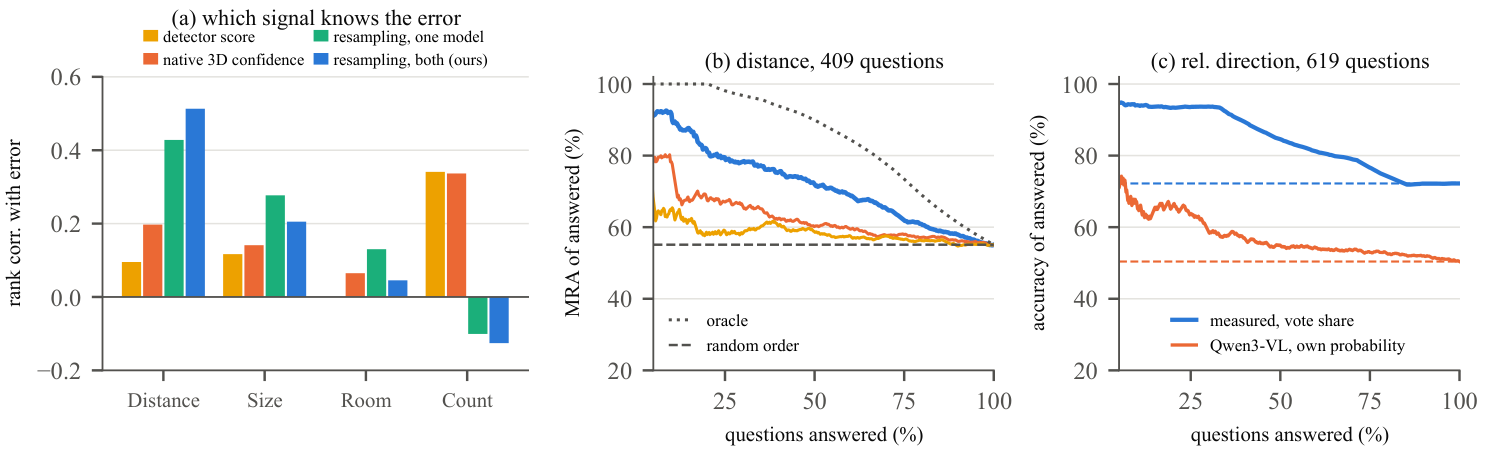
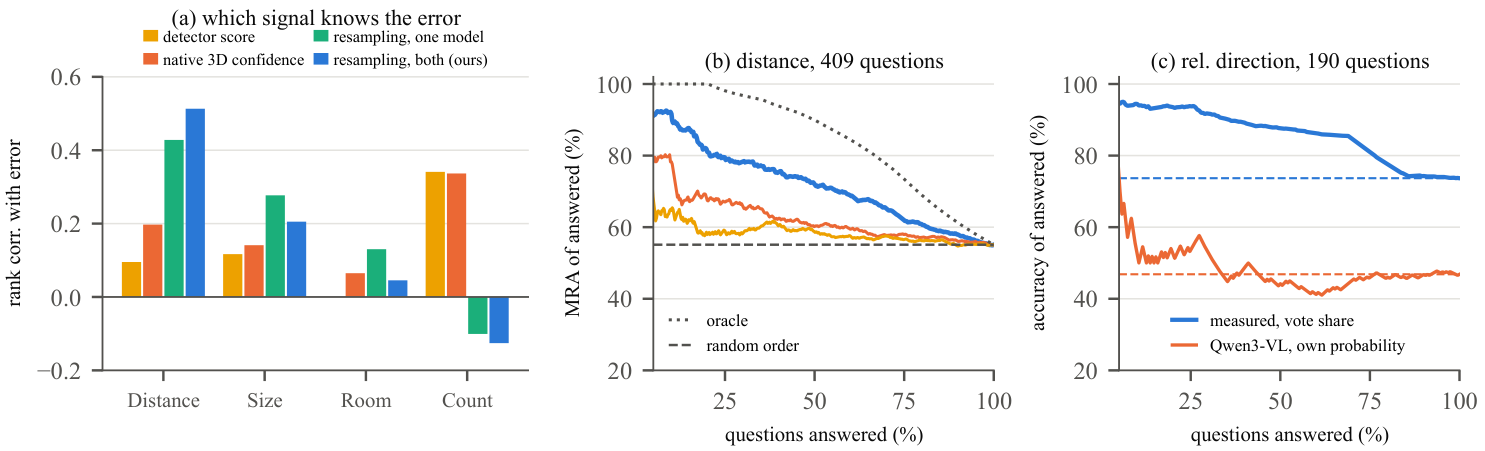
Table 3 reproduced on the paper's half of the benchmark; full-benchmark comparison as an extra

Changed region(s): [[0.7434, 0.2173, 0.9912, 0.6519], [0.8673, 0.1242, 0.8983, 0.1552]]

diff --git a/scripts/reproduce_paper.py b/scripts/reproduce_paper.py
@@ -33,11 +33,13 @@ def main():
     run([PY, "-m", "measure_twice.calibration", "--answers", ans, "--families", "mapanything,pi3x", "--out", os.path.join(OUT, "two_models.json")])
     run([PY, "-m", "measure_twice.calibration", "--answers", ans, "--families", "mapanything,pi3x,da3m",
          "--tasks", "object_abs_distance,object_size_estimation,room_size_estimation", "--out", os.path.join(OUT, "three_models.json")])
-    # Table 3: spatial MLLMs next to the measurements (16 frames, and 32 frames for Qwen3-VL when available)
-    for name, d in (("qwen3vl8b_16f", "qwen3vl8b_16f"), ("vst7b_16f", "vst7b_16f"), ("qwen3vl8b_32f", "qwen3vl8b_32f")):
-        files = sorted(glob.glob(os.path.join(RES, "mllm", d, "*.jsonl")))
-        if files:
-            run([PY, "-m", "measure_twice.mllm_compare", "--mllm", *files, "--answers", ans, "--out", os.path.join(OUT, f"mllm_{name}.json")])
+    # Table 3: spatial MLLMs next to the measurements. The paper evaluates part1 (one half of the benchmark, 2,007
+    # questions); part2 completes the benchmark and is analysed separately as an extra.
+    for d in ("qwen3vl8b_16f", "vst7b_16f"):
+        part1 = os.path.join(RES, "mllm", d, "part1.jsonl")
+        run([PY, "-m", "measure_twice.mllm_compare", "--mllm", part1, "--answers", ans, "--out", os.path.join(OUT, f"mllm_{d}.json")])
+        both = sorted(glob.glob(os.path.join(RES, "mllm", d, "part*.jsonl")))
+        run([PY, "-m", "measure_twice.mllm_compare", "--mllm", *both, "--answers", ans, "--out", os.path.join(OUT, f"mllm_{d}_full_benchmark.json")])
     # Table 4: physical degradation
     run([PY, "-m", "measure_twice.degradation_eval", "--clean", ans, "--degraded", os.path.join(RES, "vsi_answers_degraded.json"),
          "--out", os.path.join(OUT, "degradation.json")])

diff --git a/scripts/make_figures.py b/scripts/make_figures.py
@@ -197,7 +197,7 @@ def evidence():
     ax.legend(fontsize=5.6, frameon=False, loc="lower left", handlelength=1.4)
     # (c) relative direction: MLLM probability vs measured vote, same questions
     ax = axes[2]
-    M = load_mllm(sorted(_g.glob(os.path.join(ROOT, "results", "mllm", "qwen3vl8b_16f", "*.jsonl"))))
+    M = load_mllm(sorted(_g.glob(os.path.join(ROOT, "results", "mllm", "qwen3vl8b_16f", "part1.jsonl"))))
     gs, gc, qs, qc = [], [], [], []
     for r in ANS:
         if r["type"].startswith("object_rel_direction") and r["id"] in M:

diff --git a/README.md b/README.md
@@ -46,7 +46,7 @@ never seen. **Nothing is trained.**
 | **Tighter calibrated intervals** | At ≈ 90 % coverage on unseen scenes the median distance interval is **2.7 m**, against **6.3 m** without uncertainty. |
 | **Views, not models** | Re-running *one* model on other frames ranks errors better than consulting *other* models (ρ 0.43–0.46 vs 0.38 at three reconstructions each). |
 | **Safer decisions** | "Is the gap wider than τ?" is settled for **35.7 %** of question–threshold pairs with **5.9 %** error, against **10.6 %** for an equally selective control and **15.8 %** for always answering. |
-| **Two kinds of confidence** | Qwen3-VL's confidence cannot rank its distance errors (ranking gain −1.6) while the measured spread can (14.6); for counting the roles flip. |
+| **Two kinds of confidence** | Qwen3-VL's confidence cannot rank its distance errors (ranking gain −0.4) while the measured spread can (15.3); for counting the roles flip. |
 | **Honest limits** | Shared errors that every view sees (missed instances, unseen room parts, video compression) are invisible to resampling. |
 
 ## Results

diff --git a/results/README.md b/results/README.md
@@ -35,6 +35,8 @@ JSONL, one line per question:
 | folder | model | frames |
 |---|---|---|
 | `qwen3vl8b_16f/` | Qwen3-VL-8B-Instruct, fp16 | 16 |
-| `qwen3vl8b_32f/` | Qwen3-VL-8B-Instruct, fp16, the same 32 frames as the measurements | 32 |
 | `vst7b_16f/` | VST-7B-RL, fp16 | 16 |
 | `*_degraded/` | the same models on the degraded videos | 16 |
+
+`part1.jsonl` is the half of the benchmark evaluated in the paper's Table 3 (2,007 questions with a measured answer);
+`part2.jsonl` completes the benchmark. The measurements themselves use 32 frames.
